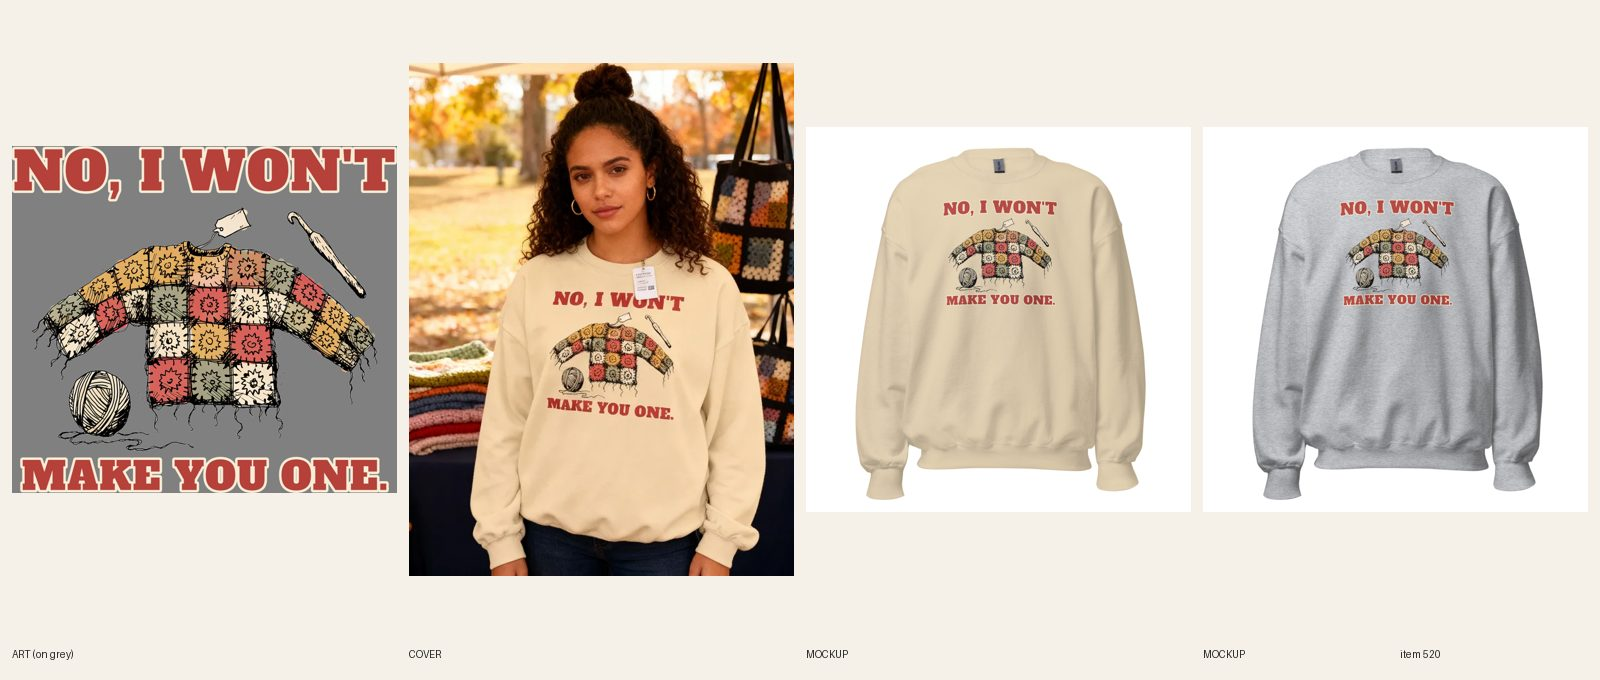
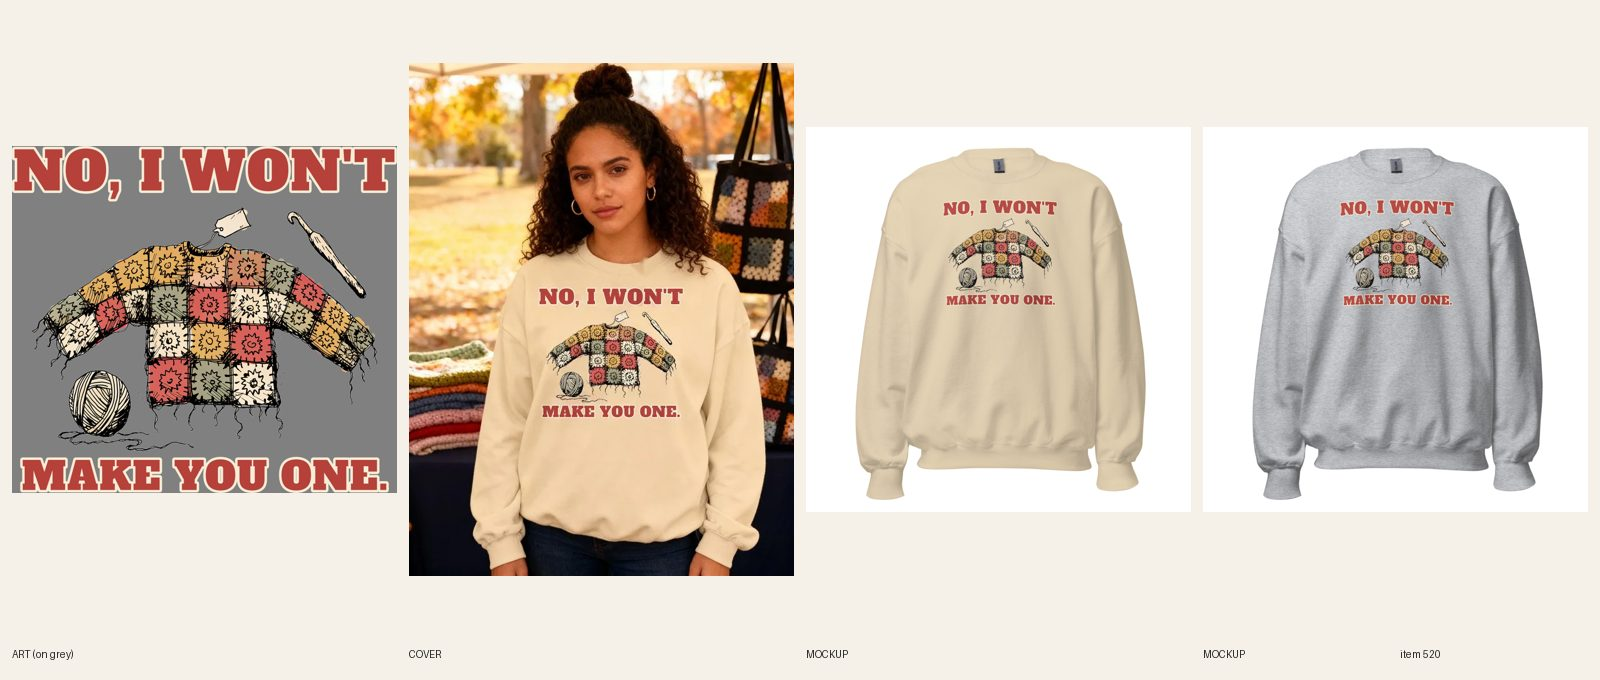
[B] review 520 REDO: tag removed, composite cover

Changed region(s): [[0.3438, 0.3706, 0.4375, 0.6176]]

diff --git a/docs/pipeline/520-crochet-crew-no-i-wont-make-you-one.md b/docs/pipeline/520-crochet-crew-no-i-wont-make-you-one.md
@@ -1,4 +1,4 @@
-status: REDO
+status: REVIEW
 lane: B
 type: new
 id: 520
@@ -31,3 +31,4 @@ kd: 44
 - 2026-10-18 02:16 UTC builder [B]: full build. Art: 1 Recraft call, kept (granny-square sweater laid flat with a blank paper tag, wooden hook, ball of yarn; it is a pullover-style sweater not a cardigan, so the copy says "sweater"). NO, I WON'T / MAKE YOU ONE. (AlfaSlabOne, faded red #b5413a, cream keyline, normal tracking +0.03, both lines at least 85% of the art width) via compose-print. Colors Sand + Sport Grey, NOT Navy: the black linework sinks into Navy and the red lettering is lower contrast there. Print 11.4 x 10.2 in (wide, ratio 0.90), FW 1650 TOP 150. DRAFT gid 15364411162928, category aa-1-13-14, 12 variants $34.99, compareAtPrice null, tags per brief, keyword crochet sweatshirt 720/KD44 in line one and meta (map entry already present), FAQ 6 x 40-60 words incl. Dec 8. Printful file 1088621536, sync 12/12; mockups Sand + Sport Grey + back attached and linked. Phone-size read ok on Sport Grey. Cover: registry 854, 1 fal photo, both lines read, no hair/hand/prop over the print; a small white hang tag sits at her collar, above the print; no composite; alt starts "Woman". Audit-local PASS, astro build OK. fal $0.10.
 - 2026-10-18 02:45 UTC director: REDO (stays DRAFT).
   1. R6.8/R6.9 (nothing over the print): the cover model turned the art's paper tag into a real white price tag clipped at her collar. It hangs over the O of WON'T, so the top line reads 'NO, I W_N'T'. Remove the tag and repaint the neckline, then composite the exact print from the Sand mockup onto her chest (R6.9 composite first, no fal) and read every word. Art, copy, colors and keyword pass.
+- 2026-10-18 03:05 UTC builder [B]: REDO done (no fal). Removed the white hang tag and its string from the cover photo (masked inpaint at full 1536x2048 resolution, neckline repainted), then composited the exact print from the product's print file onto her chest (R6.9) so NO, I WON'T reads in full with no tag over the O; every word read letter by letter (NO, I WON'T / MAKE YOU ONE.). The garment shows no hang tag now. Review sheet rebuilt, astro build OK. fal $0.

diff --git a/docs/intake-log.md b/docs/intake-log.md
@@ -1,3 +1,4 @@
+2026-10-18 02:47 UTC — [B] REVIEW #520 No, I Won't Make You One crochet crewneck REDO (tag removed, composite cover; fal $0).
 2026-10-18 02:46 UTC — [B] REVIEW #529 Men's Welder – If You Can Step Over It, I Can Fill It Tee (DRAFT, synced 35/35, 5 dark colors, FW 1600; fal $0.10).
 2026-10-18 02:46 UTC — [B] REVIEW #532 Men's Fishing – You Catching 'Em? Tee (DRAFT, synced 35/35, 5 dark colors; fal $0.10).
 2026-10-18 02:44 UTC — [H] Helper run: Telegram inbox empty (getUpdates returned nothing, nothing to consume; no pause or resume). Audit: 486 products, 0 errors, 29 warnings left alone (polish). No meta, SEO or collection errors to fix. Category check (one-time rule, still checking): 0 products without a category (positive control returns aa-1-13-8 on sample). Site freshness: mens-christmas-some-assembly-regretted-graphic-tee, womens-golden-retriever-i-brought-you-a-sock-crewneck-sweatshirt, unisex-golf-not-cheating-improving-my-lie-hoodie all 200. Stuck check: no alert. Every lane committed within the hour (A 02:28, B 02:35, C 02:43, E 02:43). The RUNNING lines for lanes A (23:59) and B (23:57) are older than 2 hours, same as earlier runs; left for the director to clear. Daily summary not due (first run after 12:00 UTC). Lock released.
